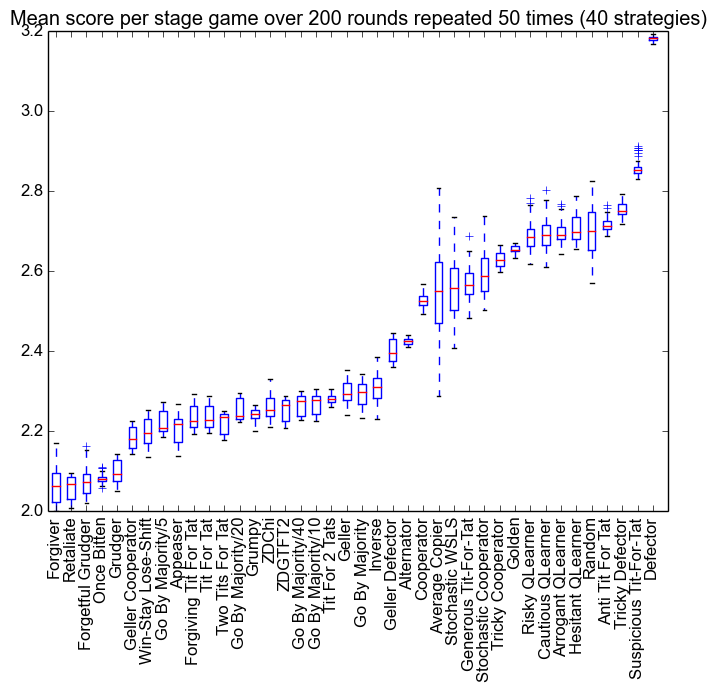
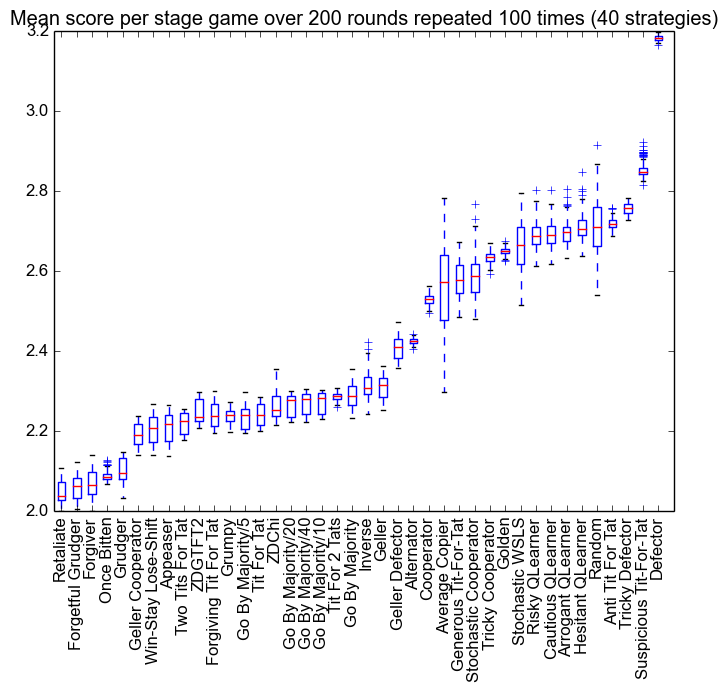
Fool Me Once and Forgetful Fool Me Once, with tests

Changed region(s): [[0.0, 0.0, 0.9832, 1.0]]

diff --git a/axelrod/tests/test_oncebitten.py b/axelrod/tests/test_oncebitten.py
@@ -60,3 +60,62 @@ class TestOnceBitten(unittest.TestCase):
 
     def test_stochastic(self):
         self.assertFalse(axelrod.OnceBitten().stochastic)
+
+class TestFoolMeOnce(unittest.TestCase):
+
+    def test_initial(self):
+        P1 = axelrod.FoolMeOnce()
+        P2 = axelrod.Player()
+        self.assertEqual(P1.strategy(P2), P1._initial)
+
+    def test_strategy(self):
+        """
+        If opponent defects at any point then the player will defect forever
+        """
+        P1 = axelrod.FoolMeOnce()
+        P2 = axelrod.Cooperator()
+        P1.history = ['C']
+        P2.history = ['C']
+        self.assertEqual(P1.strategy(P2), 'C')        
+        P2.history.append('D')
+        self.assertEqual(P1.strategy(P2), 'D')
+        P2.history.append('C')
+        self.assertEqual(P1.strategy(P2), 'D')
+
+    def test_representation(self):
+        P1 = axelrod.FoolMeOnce()
+        self.assertEqual(str(P1), 'Fool Me Once')
+
+    def test_stochastic(self):
+        self.assertFalse(axelrod.FoolMeOnce().stochastic)
+
+
+class TestForgetfulFoolMeOnce(unittest.TestCase):
+
+    def test_initial(self):
+        P1 = axelrod.ForgetfulFoolMeOnce()
+        P2 = axelrod.Player()
+        self.assertEqual(P1.strategy(P2), P1._initial)
+
+    def test_strategy(self):
+        """
+        If opponent defects at any point then the player will defect forever
+        """
+        P1 = axelrod.FoolMeOnce()
+        P2 = axelrod.Cooperator()
+        P1.history = ['C']
+        P2.history = ['C']
+        self.assertEqual(P1.strategy(P2), 'C')        
+        P2.history.append('D')
+        P2.history.append('D')
+        self.assertEqual(P1.strategy(P2), 'D')
+        P2.history.append('C')
+        self.assertEqual(P1.strategy(P2), 'D')
+
+    def test_representation(self):
+        P1 = axelrod.ForgetfulFoolMeOnce()
+        self.assertEqual(str(P1), 'Forgetful Fool Me Once')
+
+    def test_stochastic(self):
+        self.assertFalse(axelrod.ForgetfulFoolMeOnce().stochastic)
+

diff --git a/axelrod/strategies/oncebitten.py b/axelrod/strategies/oncebitten.py
@@ -1,3 +1,4 @@
+import random
 from axelrod import Player
 
 class OnceBitten(Player):
@@ -17,6 +18,7 @@ class OnceBitten(Player):
         self.mem_length = 10
         self.grudged = False
         self.grudge_memory = 0
+        self.stochastic = False
 
     def strategy(self, opponent):
         """
@@ -44,3 +46,54 @@ class OnceBitten(Player):
         self.history = []
         self.grudged = False
         self.grudge_memory = 0
+
+class FoolMeOnce(Player):
+    """
+    Forgives one D then retaliates forever on a second D.
+    """
+
+    name = 'Fool Me Once'
+
+    def __init__(self):
+        """
+        Initialised the player
+        """
+        super(FoolMeOnce, self).__init__()
+        self.D_count = 0
+        self._initial = 'C'
+        self.stochastic = False
+
+    def strategy(self, opponent):
+        if not opponent.history:
+            return self._initial
+        if opponent.history[-1] == 'D':
+            self.D_count += 1
+        if self.D_count > 1:
+            return 'D'
+        return 'C'
+
+class ForgetfulFoolMeOnce(Player):
+    """
+    Forgives one D then retaliates forever on a second D. Sometimes randomly forgets the defection count.
+    """
+
+    name = 'Fool Me Once'
+
+    def __init__(self, forget_probability=0.1):
+        super(ForgetfulFoolMeOnce, self).__init__()
+        self.D_count = 0
+        self._initial = 'C'
+        self.forget_probability = forget_probability
+        self.stochastic = True
+
+    def strategy(self, opponent):
+        r = random.random()
+        if not opponent.history:
+            return self._initial
+        if opponent.history[-1] == 'D':
+            self.D_count += 1
+        if r < self.forget_probability:
+            self.D_count = 0
+        if self.D_count > 1:
+            return 'D'
+        return 'C'

diff --git a/run_tournament.py b/run_tournament.py
@@ -10,7 +10,7 @@ import axelrod
 import matplotlib.pyplot as plt
 from numpy import median
 
-def run_tournament(turns=200, repetitions=50):
+def run_tournament(turns=200, repetitions=100):
 
     strategies = [strategy() for strategy in axelrod.strategies]
     cheating_strategies = [strategy() for strategy in axelrod.cheating_strategies]

diff --git a/axelrod/strategies/memoryone.py b/axelrod/strategies/memoryone.py
@@ -105,7 +105,7 @@ class StochasticWSLS(MemoryOnePlayer):
 
     name = 'Stochastic WSLS'
 
-    def __init__(self, ep=0.02):
+    def __init__(self, ep=0.05):
         four_vector = (1.-ep, ep, ep, 1.-ep)
         super(self.__class__, self).__init__(four_vector)
 

diff --git a/axelrod/strategies/__init__.py b/axelrod/strategies/__init__.py
@@ -57,6 +57,8 @@ strategies = [
         SuspiciousTFT,
         StochasticCooperator,
         GTFT,
+        FoolMeOnce,
+        ForgetfulFoolMeOnce
         ]
 
 #These are strategies that do not follow the rules of Axelrods tournement.
